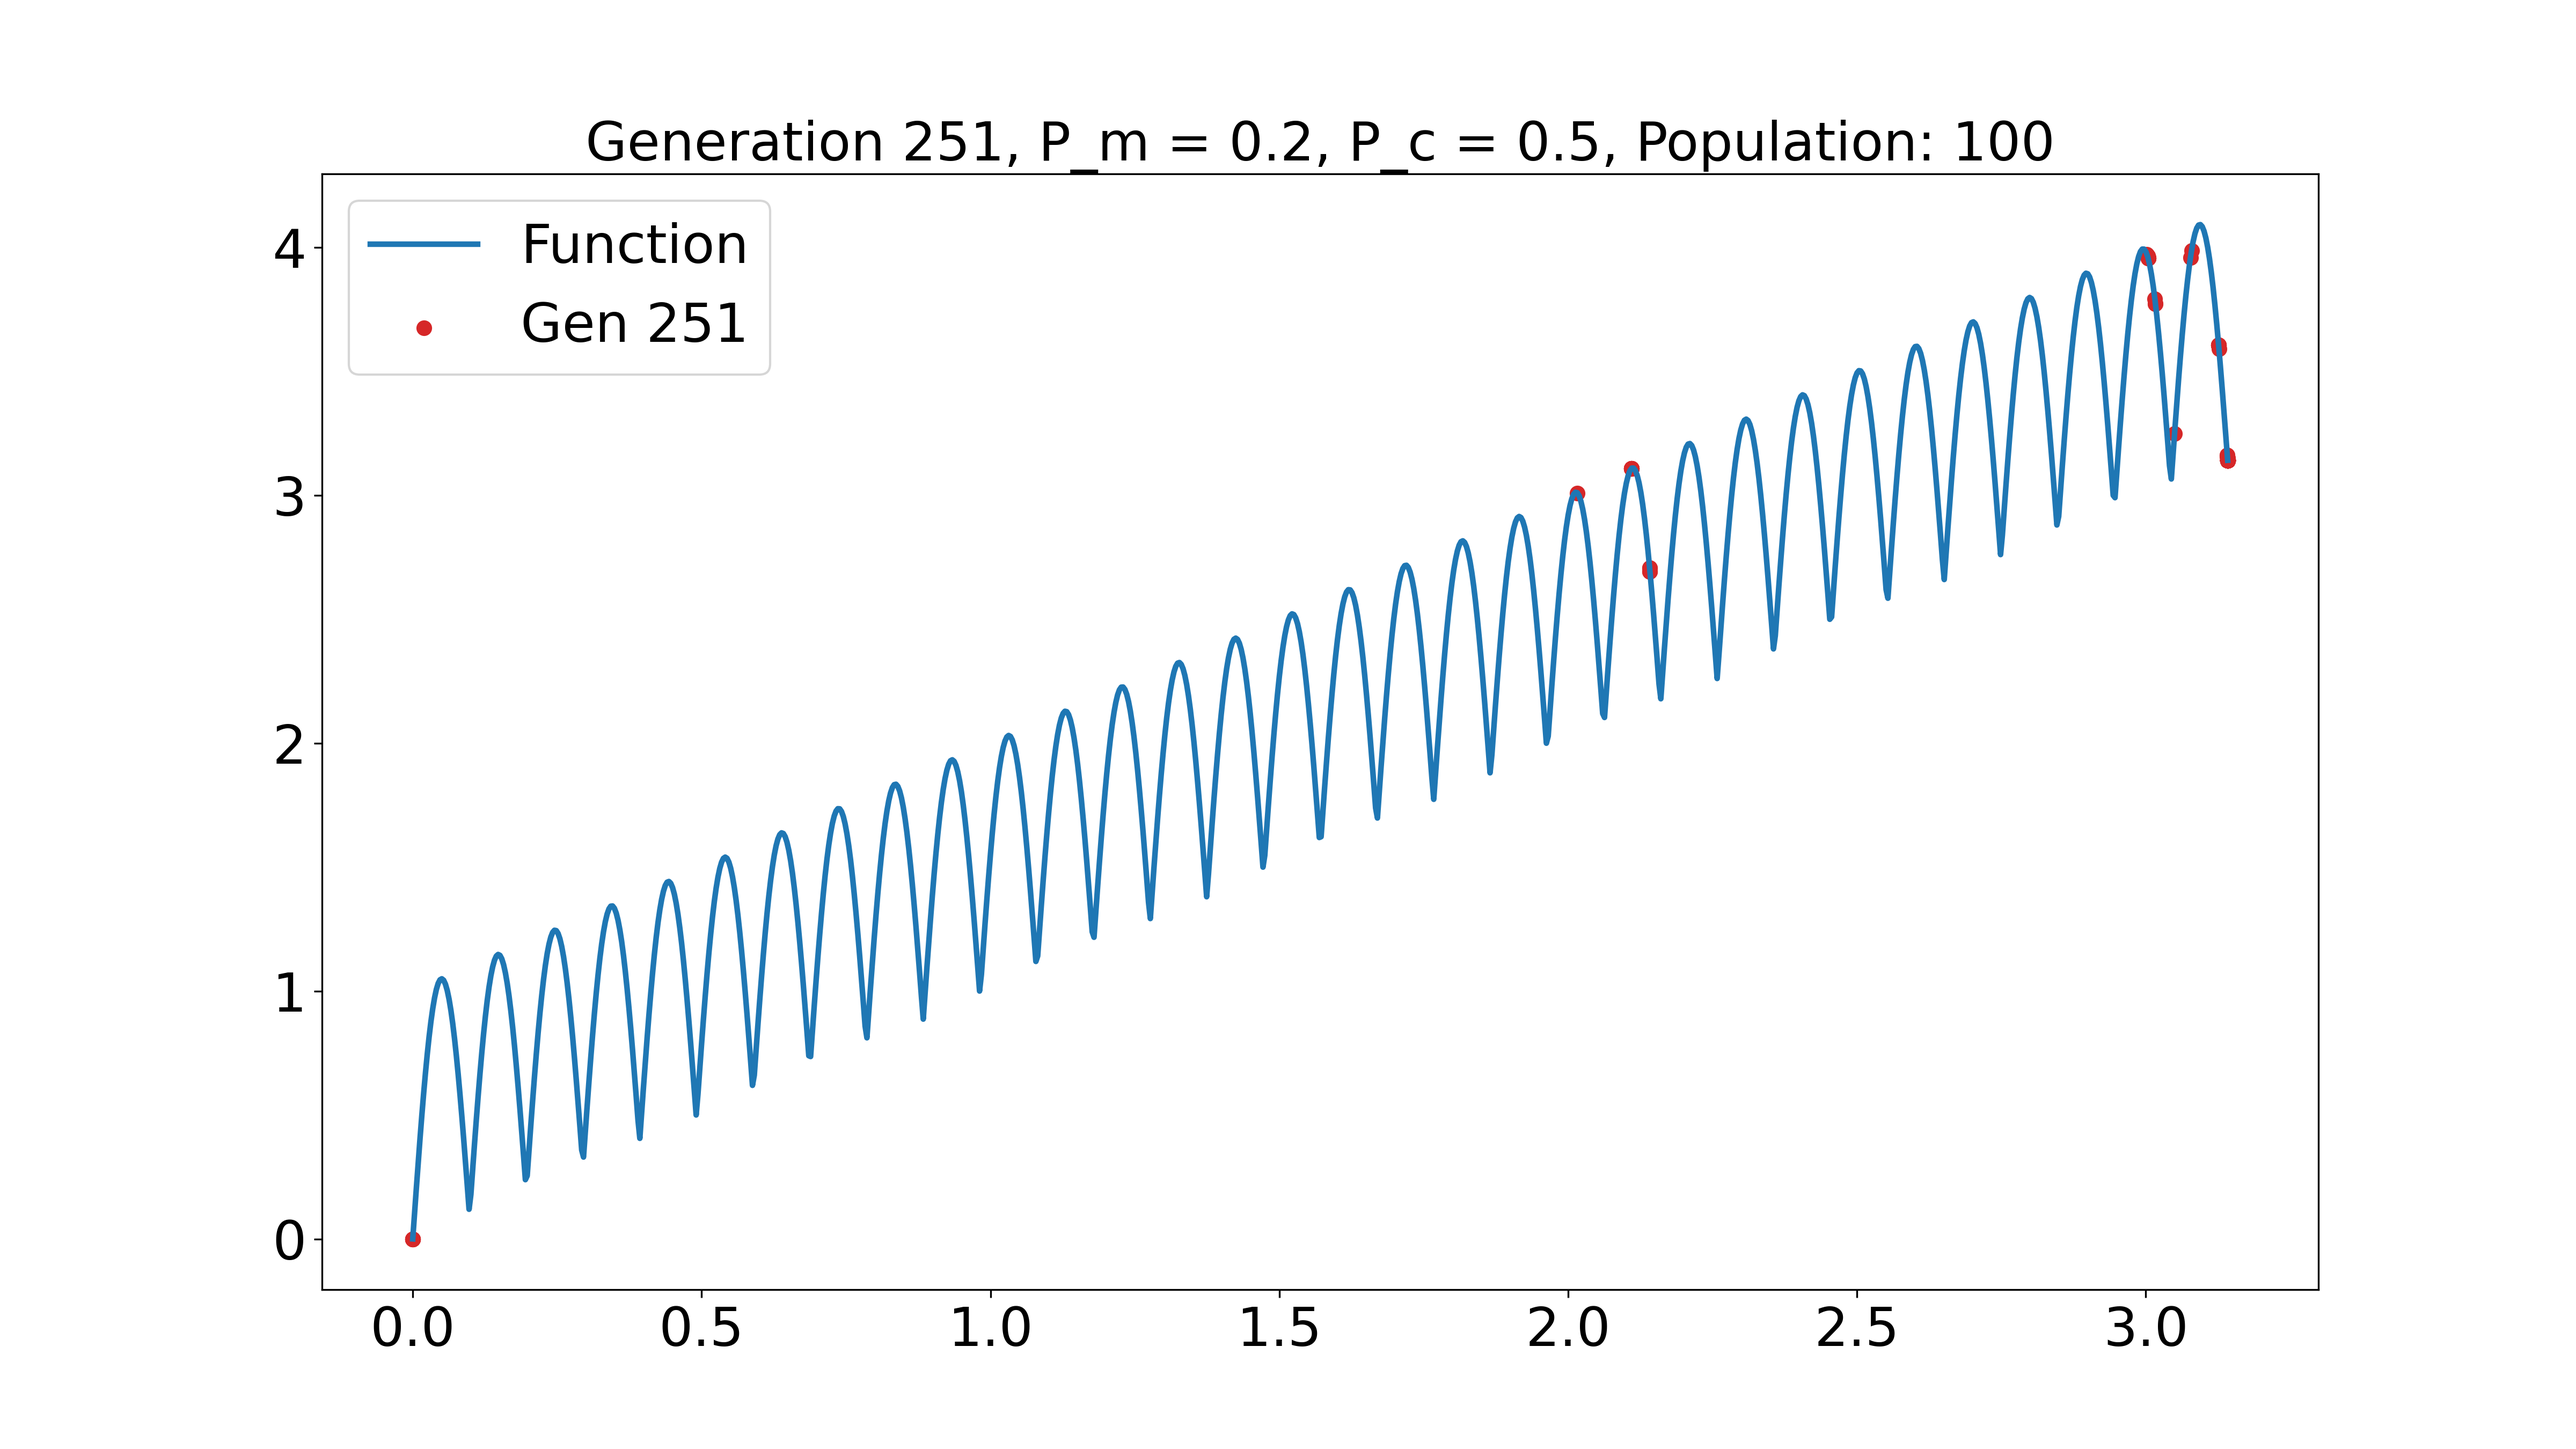
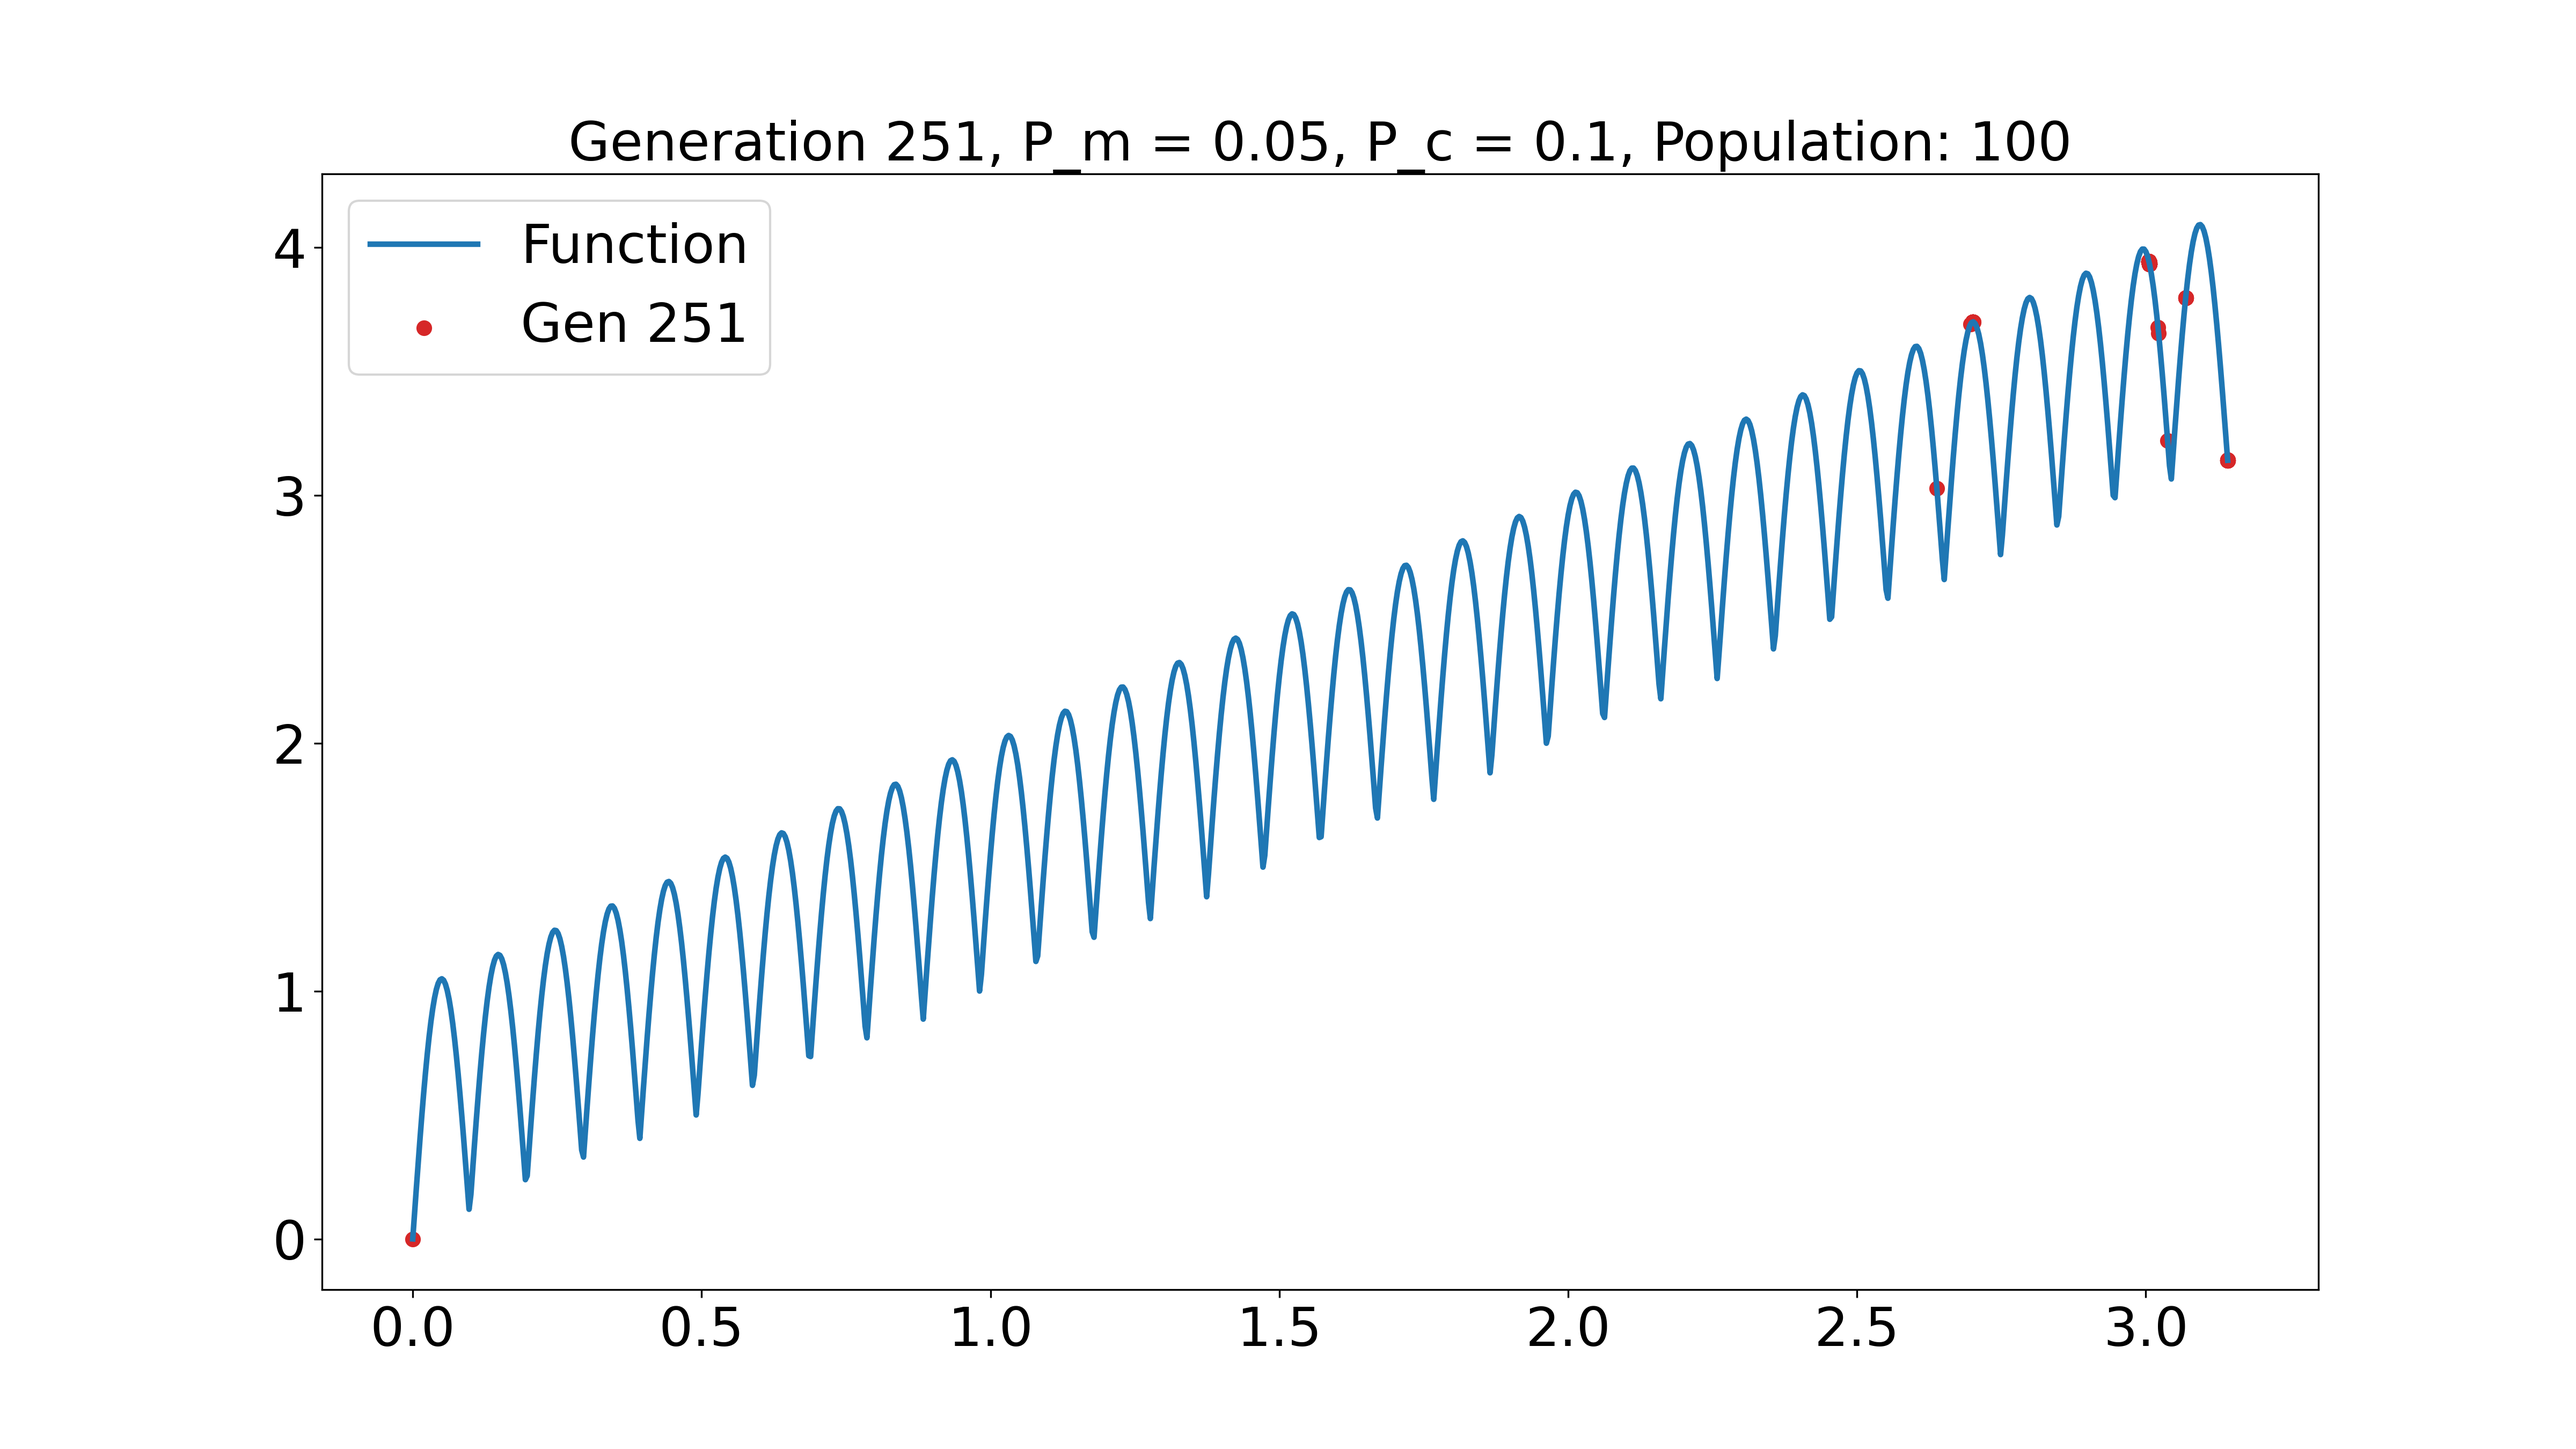
tests successful

Changed region(s): [[0.2188, 0.0622, 0.8125, 0.1244]]

diff --git a/1 - Genetic Algorithms/ag.py b/1 - Genetic Algorithms/ag.py
@@ -51,7 +51,7 @@ def ag(n=100, ngen=50, nruns=5, Pc=0.5, Pm=0.2):
 
                 child0 = parent0[0:point] + parent1[point:]
                 child1 = parent1[0:point] + parent0[point:]
-                if np.random.rand(1) < Pc:
+                if np.random.rand(1) > Pc:
                     child0 = parent0
                     child1 = parent1
                 
@@ -63,11 +63,11 @@ def ag(n=100, ngen=50, nruns=5, Pc=0.5, Pm=0.2):
 
                 c0, c1 = child0, child1
                 point = np.random.randint(32)
-                if np.random.rand(1) >= Pm:
+                if np.random.rand(1) <= Pm:
                     c0 = child0[:point] + str((int(child0[point]) + 1) % 2) + child0[point+1:]
 
                 point = np.random.randint(32)
-                if np.random.rand(1) >= Pm:
+                if np.random.rand(1) <= Pm:
                     c1 = child1[:point] + str((int(child1[point]) + 1) % 2) + child1[point+1:]
 
                 child0 = get_float(c0)
@@ -100,8 +100,8 @@ Run Genetic Algorithm
 nruns = 5
 ngen = 500
 n = 100
-Pc = 0.5
-Pm = 0.2
+Pc = 0.1
+Pm = 0.05
 
 pop_run, fit_run, globalmax = ag(n=n, ngen=ngen, nruns=nruns, Pc=Pc, Pm=Pm)
 
